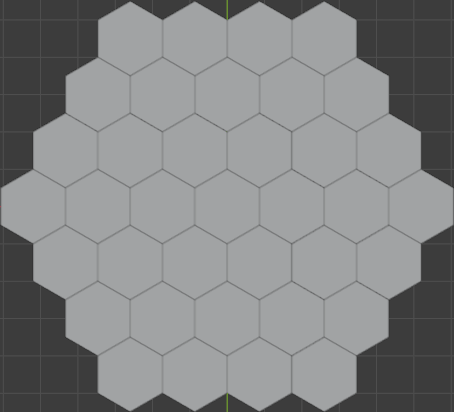
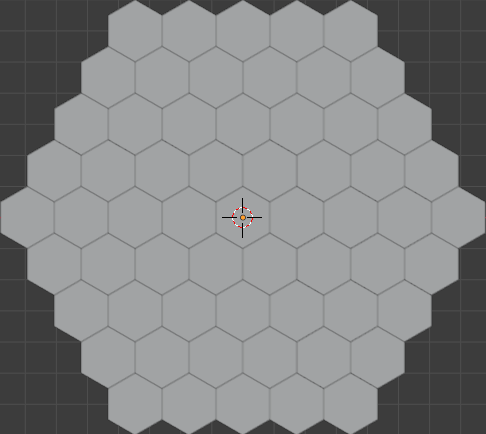
fix some things

diff --git a/main.cpp b/main.cpp
@@ -5,10 +5,10 @@
 #include "klibriry.h"
 #include <SFML/Graphics.hpp>
 void CoordinatesAdapter (int* a){
-    const int zx=30;
-    const int zy=52;
-    a[0]=(a[0]+a[0]-a[1])*zx+217;
-    a[1]=198-a[1]*zy;
+    const int zx=27;
+    const int zy=47;
+    a[0]=(a[0]+a[0]-a[1])*zx+232;
+    a[1]=207-a[1]*zy;
 }
 int main()
 {
@@ -20,7 +20,7 @@ int main()
     std::map <char, int> :: iterator it;
     hero H(B.center, Step, 1);
     // Create the main window
-    sf::RenderWindow window(sf::VideoMode(452, 411), "Magic Fight");
+    sf::RenderWindow window(sf::VideoMode(486, 434), "Magic Fight");
     // Load a sprite to display
     sf::Texture texture;
     if (!texture.loadFromFile("img/board.png"))
@@ -46,10 +46,6 @@ int main()
             if (event.type == sf::Event::KeyPressed)
             {
                 d = event.key.code + 97;
-                //ks::clear();
-                //B.print();
-                //std::cout<<std::endl;
-                //std::cin>>d;
                 it = direct.find(d);
                 if (it != direct.end()){
                     H.skill->DoIt(it->second);
@@ -68,6 +64,7 @@ int main()
         window.draw(hero);
         // Update the window
         window.display();
+        //ks::stop();
     }
     return EXIT_SUCCESS;
 }
